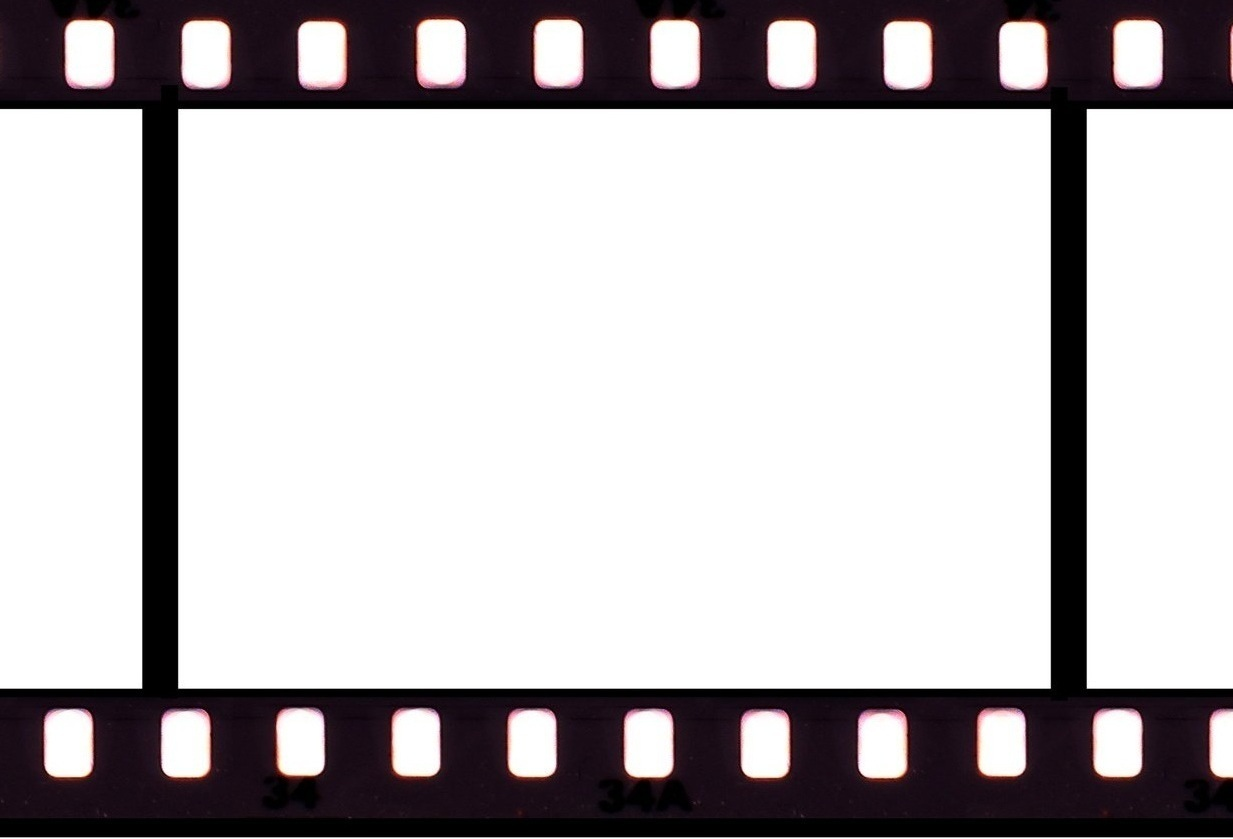
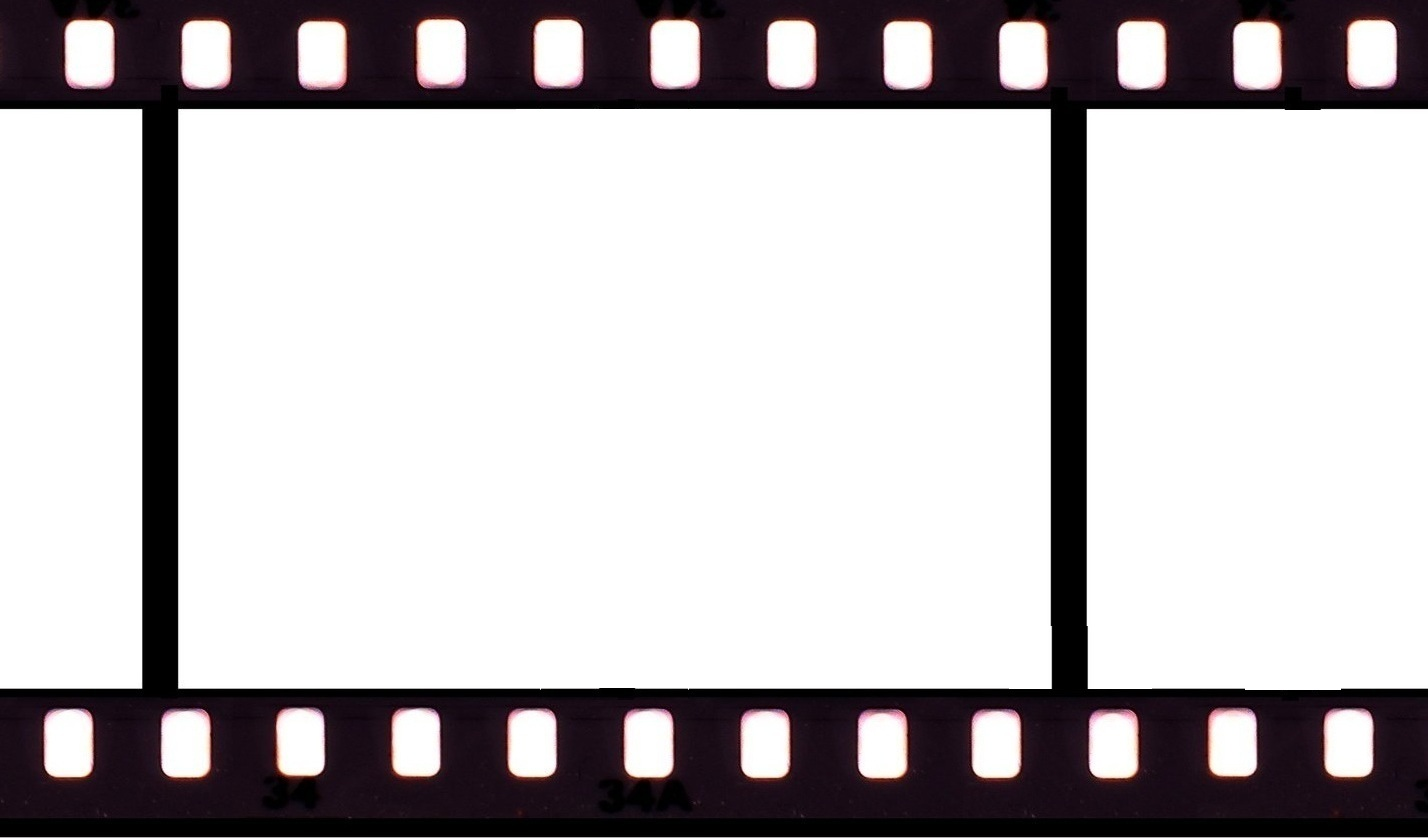
ilgi alanlarım sayfasına tasarım eklendi

diff --git a/css/style.css b/css/style.css
@@ -44,26 +44,30 @@ body {
     width: 17%;
   }
   <style>
-  .film-seridi {
-    overflow-x: auto;
-    white-space: nowrap;
-    background-image: url("img/filmseridi.jpg"); /* Arka planını senin görselinle yapıyoruz */
-    background-repeat: repeat-x;
-    background-size: cover;
-    padding: 30px 10px;
-    border-radius: 10px;
-  }
+  
 
-  .film-seridi img {
-    display: inline-block;
-    width: 250px;
-    height: 150px;
-    object-fit: cover;
-    margin: 0 10px;
-    border: 3px solid #fff;
-    border-radius: 5px;
-    box-shadow: 0 0 5px #000;
-  }
+  
+.film-strip {
+  display: flex;
+  flex-direction: row;
+  overflow-x: auto;
+  overflow-y: hidden;
+  background-image: url("img/filmseridi.jpg");
+  background-repeat: repeat-x;
+  background-size: contain;
+  padding: 30px 10px;
+  gap: 20px;
+  border-radius: 10px;
+  scroll-behavior: smooth;
+}
+.film-card {
+  flex: 0 0 auto;
+  width: 150px;
+}
+.film-strip::-webkit-scrollbar {
+  display: none;
+}
+
 
   h2 {
     margin-top: 40px;

diff --git a/ilgialanlarim.html b/ilgialanlarim.html
@@ -13,7 +13,7 @@
 
     .film-strip {
       overflow-x: auto;
-      /* white-space: nowrap */
+       white-space: nowrap 
       background-image: url("img/filmseridi.jpg");
  /* Basit film şeridi arka planı */
       background-repeat: repeat-x;
